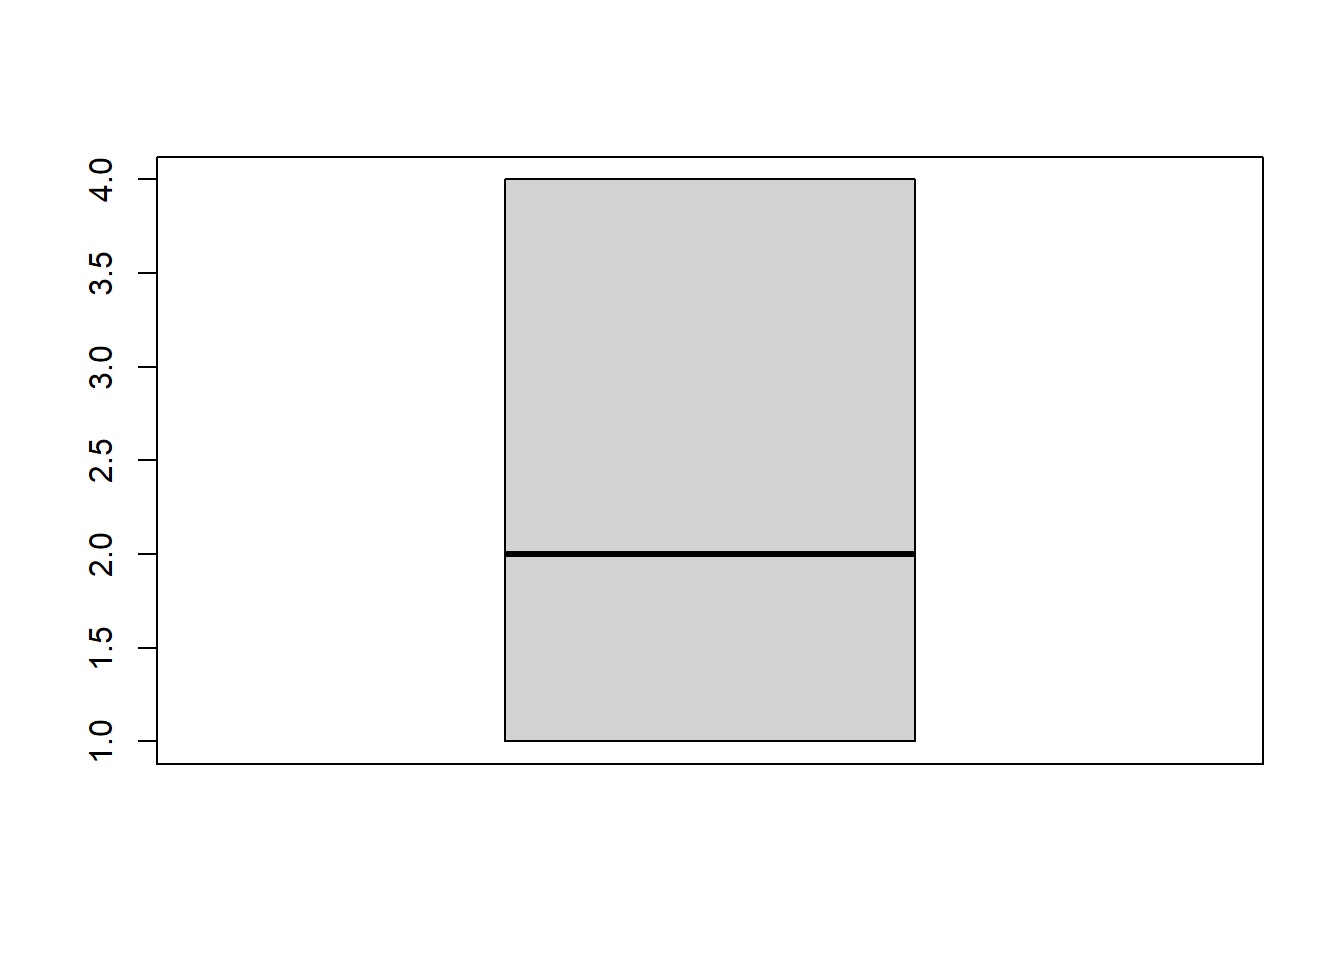
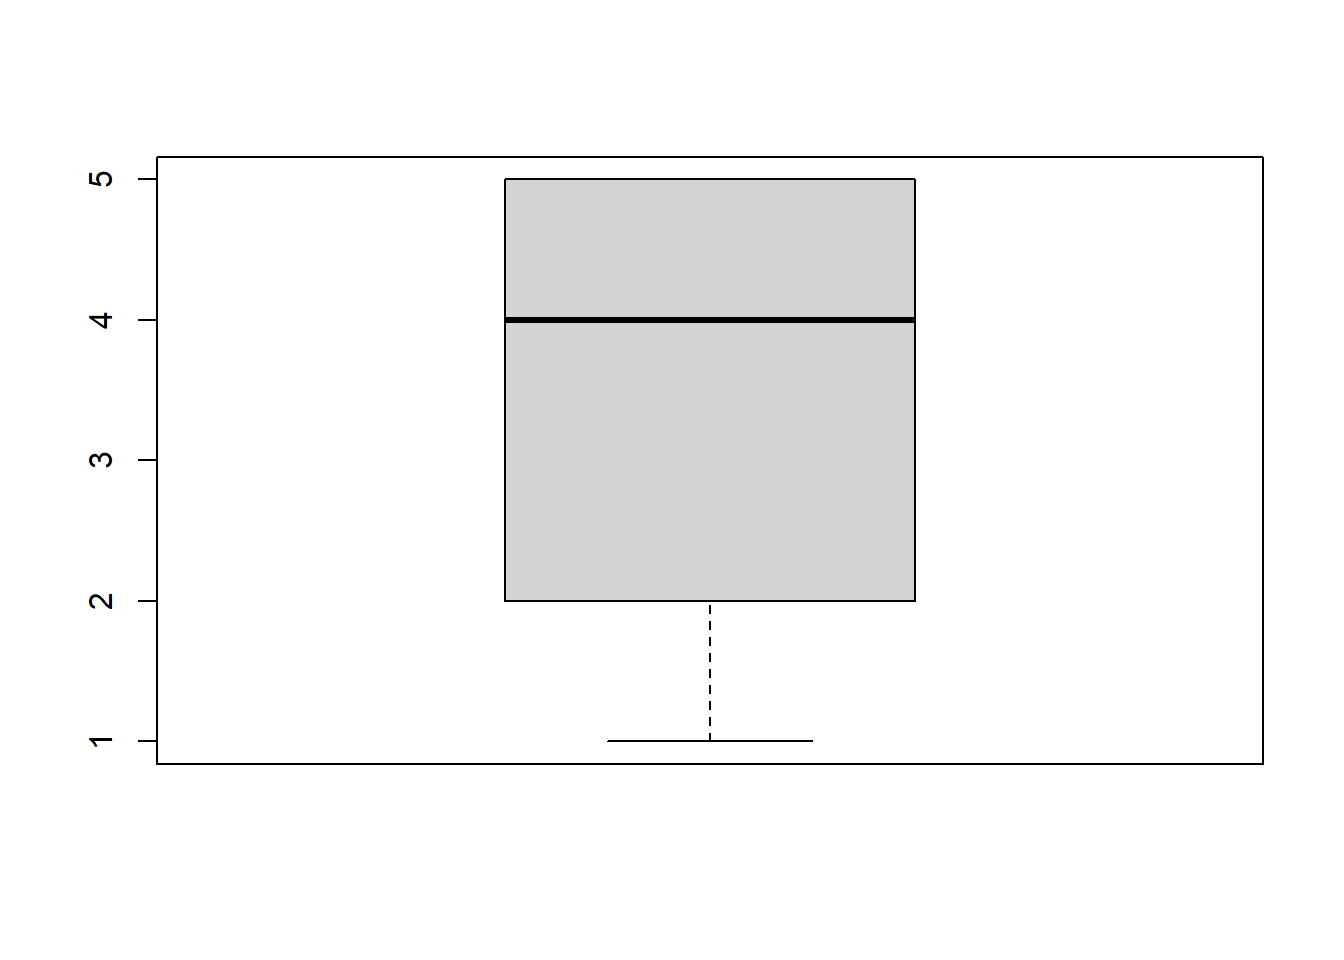
Update tasks and solutions for a last time before availability of real 21 data.

diff --git a/content/post/2021-09-21-deskriptivstatistik-fuer-nominal-und-ordinalskalen-loesungen.html b/content/post/2021-09-21-deskriptivstatistik-fuer-nominal-und-ordinalskalen-loesungen.html
@@ -124,7 +124,7 @@ relInf</code></pre>
 </div>
 <div id="aufgabe-2" class="section level2">
 <h2>Aufgabe 2</h2>
-<p>Die Variable <code>prok2</code> enthält die Angaben über das Ausmaß, in dem Sie und Ihre Kommilitonen/-innen sich zum Zeitpunkt des Ausfüllens “müde” fühlten.</p>
+<p>Die Variable <code>nr3</code> enthält die Angaben über das Ausmaß, in dem Sie und Ihre Kommilitonen/-innen Ihre Verbindung zur Natur als Teil Ihrer Spiritualität ansehen.</p>
 <ul>
 <li>Bestimmen Sie für diese Variable den Modus.<br />
 </li>
@@ -137,27 +137,27 @@ relInf</code></pre>
 Lösung
 </summary>
 <p><strong>Modus</strong></p>
-<pre class="r"><code>which.max(table(fb21$prok2))</code></pre>
-<pre><code>## 1 
-## 1</code></pre>
+<pre class="r"><code>which.max(table(fb21$nr3))</code></pre>
+<pre><code>## 4 
+## 4</code></pre>
 <p><strong>Häufigkeiten</strong></p>
-<pre class="r"><code>table(fb21$prok2)</code></pre>
+<pre class="r"><code>table(fb21$nr3)</code></pre>
 <pre><code>## 
-##  1  2  3  4 
-## 29 27 15 26</code></pre>
-<pre class="r"><code>prop.table(table(fb21$prok2))</code></pre>
+##  1  2  3  4  5 
+## 17 13 12 28 25</code></pre>
+<pre class="r"><code>prop.table(table(fb21$nr3))</code></pre>
 <pre><code>## 
-##         1         2         3         4 
-## 0.2989691 0.2783505 0.1546392 0.2680412</code></pre>
-<p>Der Modus der Variable “prok2” (“müde”) beträgt 3, d.h. die Antwortkategorie ‘3’ wurde am häufigsten genannt (<em>n</em> = 29 bzw. 29.9%).</p>
+##         1         2         3         4         5 
+## 0.1789474 0.1368421 0.1263158 0.2947368 0.2631579</code></pre>
+<p>Der Modus der Variable “nr3” beträgt 4, d.h. diese Antwortkategorie wurde am häufigsten genannt (<em>n</em> = 28 bzw. 29.47%).</p>
 <p><strong>Boxplot</strong></p>
-<pre class="r"><code>boxplot(fb21$prok2)</code></pre>
+<pre class="r"><code>boxplot(fb21$nr3)</code></pre>
 <p><img src="/post/2021-09-21-deskriptivstatistik-fuer-nominal-und-ordinalskalen-loesungen_files/figure-html/unnamed-chunk-9-1.png" width="672" /></p>
 <p><strong>Quartile</strong></p>
-<pre class="r"><code>quantile(fb21$prok2, c(.25,.5,.75), na.rm=T)</code></pre>
+<pre class="r"><code>quantile(fb21$nr3, c(.25,.5,.75), na.rm=T)</code></pre>
 <pre><code>## 25% 50% 75% 
-##   1   2   4</code></pre>
-<p>Der Median beträgt 2. Das 1. und 3. Quartil betragen 1 bzw. 4. Folglich beträgt der Interquartilsbereich (IQB) 3.</p>
+##   2   4   5</code></pre>
+<p>Der Median beträgt 4. Das 1. und 3. Quartil betragen 2 bzw. 5. Folglich beträgt der Interquartilsbereich (IQB) 3.</p>
 </details>
 </div>
 <div id="aufgabe-3" class="section level2">

diff --git a/content/post/2021-09-21-deskriptivstatistik-fuer-nominal-und-ordinalskalen.html b/content/post/2021-09-21-deskriptivstatistik-fuer-nominal-und-ordinalskalen.html
@@ -347,7 +347,7 @@ relinf</code></pre>
 <h2>Ordinalskalierte Variablen</h2>
 <p>In diesem Abschnitt lernen Sie deskriptivstatistische Kennwerte für ordinalskalierte Variablen kennen. Aus der Vorlesung wissen Sie schon, dass Median und Interquartilsabstand (IQB) nur für die Klasse der geordneten Kategorien (auch “Rangklassen”) sinnvoll sind, nicht für singuläre Daten (“Rangwerte”).</p>
 <p>Zunächst aber eine Wiederholung: Wie Sie aus der Vorlesung wissen, könnnen die in der Tabelle am Anfang dieses Dokuments aufgeführten statistischen Kennwerte (Zentrale Lage, Dispersion) auch für Skalenniveaus genutzt werden, die “weiter unten” in der Tabelle stehen. Für ordinalskalierte Variablen (Rangklassen) kann also auch der Modus berechnet werden.</p>
-<p>Nachfolgend soll mit Item 1 des Prokrastinationsfragebogens gearbeitet werden. Es wurde wie folgt erhoben:</p>
+<p>Nachfolgend soll mit Item 4 des Prokrastinationsfragebogens gearbeitet werden. Es wurde wie folgt erhoben:</p>
 <p><img src="/post/fb_prok1.PNG" /></p>
 <p>Es treten die Werte 1 bis 4 empirisch auf, außerdem gibt es 2 fehlende Werte (dargestellt als <code>NA</code>):</p>
 <pre class="r"><code>fb21$prok4</code></pre>

diff --git a/content/post/2021-09-21-deskriptivstatistik-fuer-nominal-und-ordinalskalen-aufgaben.html b/content/post/2021-09-21-deskriptivstatistik-fuer-nominal-und-ordinalskalen-aufgaben.html
@@ -40,7 +40,7 @@ projects: []
 </div>
 <div id="aufgabe-2" class="section level2">
 <h2>Aufgabe 2</h2>
-<p>Die Variable <code>mdbf7</code> enthält die Angaben über das Ausmaß, in dem Sie und Ihre Kommilitonen/-innen sich zum Zeitpunkt des Ausfüllens “müde” fühlten.</p>
+<p>Die Variable <code>nr3</code> enthält die Angaben über das Ausmaß, in dem Sie und Ihre Kommilitonen/-innen Ihre Verbindung zur Natur als Teil Ihrer Spiritualität ansehen.</p>
 <ul>
 <li>Bestimmen Sie für diese Variable den Modus.<br />
 </li>
